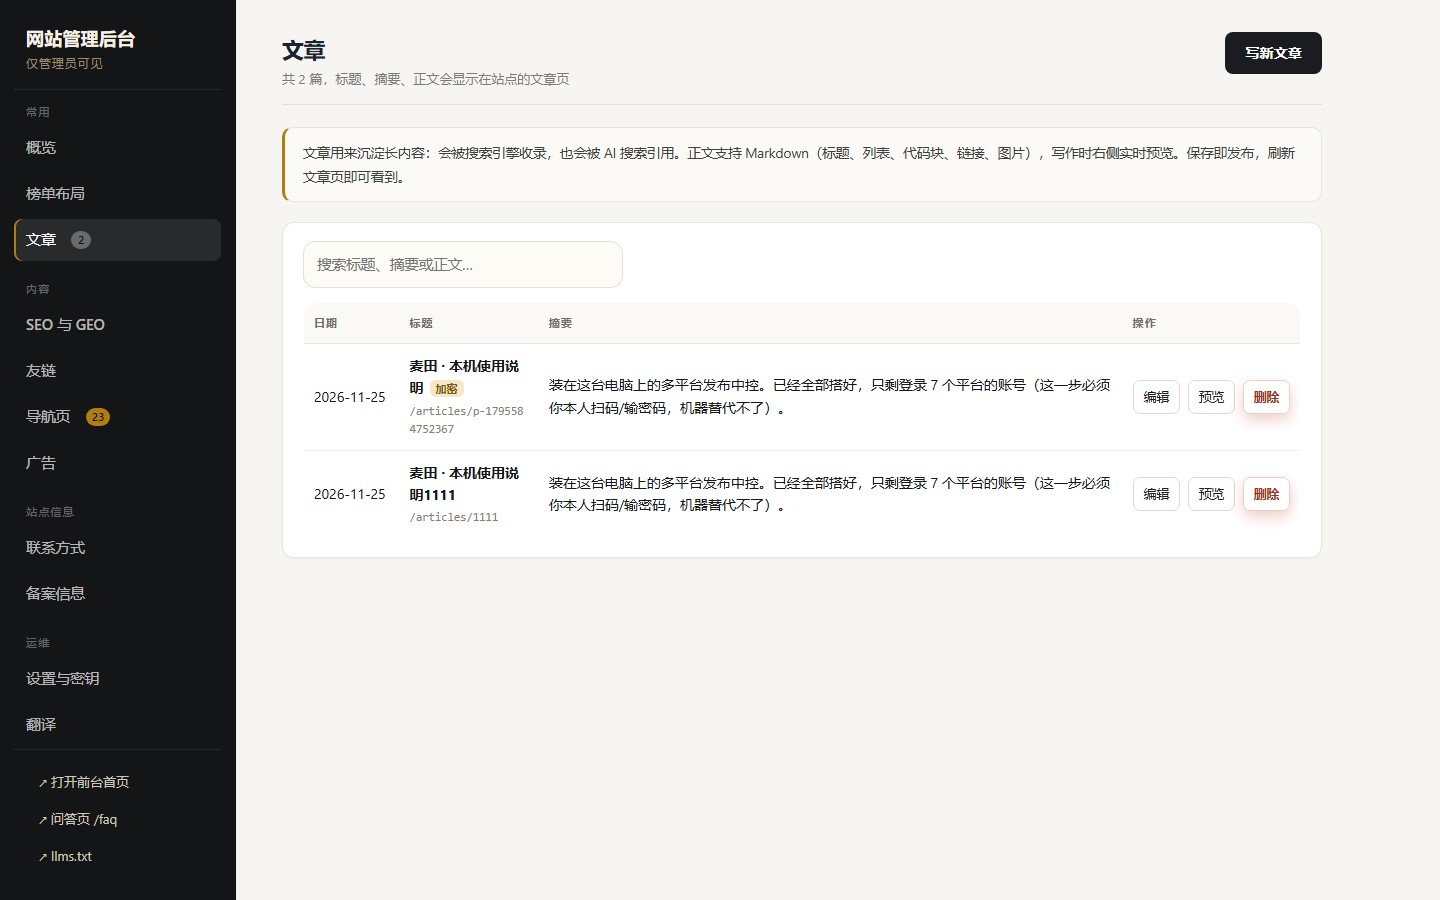
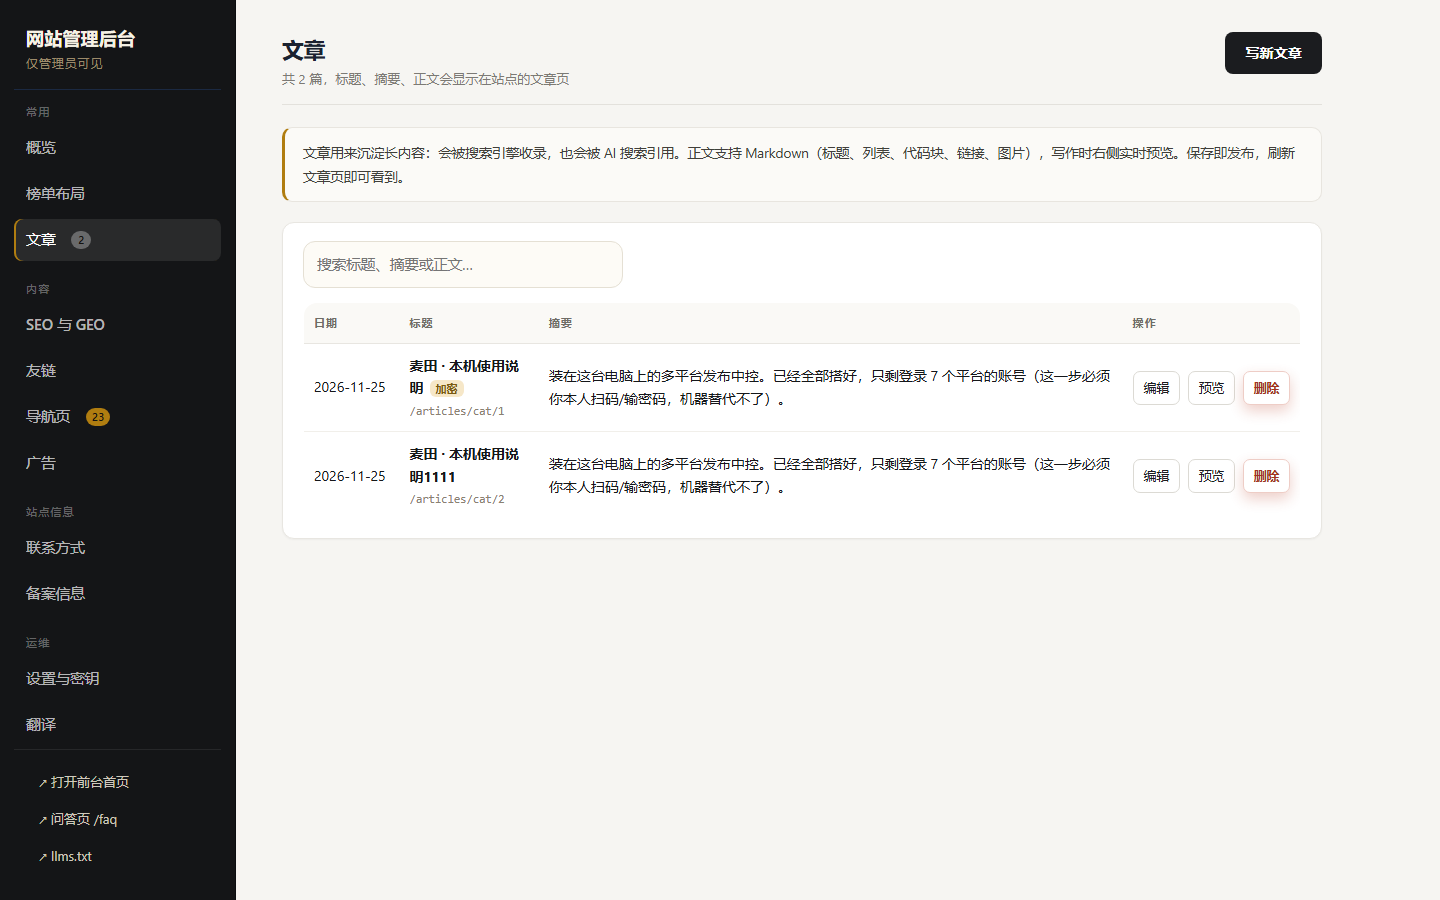
feat(articles): 文章链接改成「分类词/序号」，如 /articles/tech/3、/articles/技术/1
- 后端：catKeyOf() 分类词（英文转小写连字符、中文原样、空则 cat）、nextSeqOf() 该分类最大号+1
- 新建/编辑默认 slug = 分类词/序号；老文章按日期自动补号（cat/1、cat/2…）
- 校验与路由支持中文/字母/数字/_/-，路由先 decodeURIComponent 再匹配
- 输出地址按段编码（整体 encode 会把 / 变成 %2F）；sitemap 与收录提交同步
- 后台写文章弹窗新增「分类」与「链接（分类词/序号）」两栏，「自动」按钮生成分类词、序号留空自动
- 列表每行显示 /articles/<分类词>/<序号> · 分类
- sw v52 / ASSET_V v52；文档补规则与坑（模板字面量吃 \/ 导致后台脚本语法错）

Changed region(s): [[0.2188, 0.4667, 0.9062, 0.5911], [0.3438, 0.4044, 0.9062, 0.4667], [0.2188, 0.4044, 0.25, 0.4667]]

diff --git a/worker.js b/worker.js
@@ -71,7 +71,7 @@ export default {
         });
       }
       // /articles/<slug> 也返回文章页（前端按路径里的 slug 打开对应文章，利于收录）
-      if (/^\/articles\/[A-Za-z0-9][A-Za-z0-9-]{0,59}$/.test(url.pathname) && (request.method === 'GET' || request.method === 'HEAD')) {
+      if (/^\/articles\/[\p{L}\p{N}][\p{L}\p{N}_-]{0,23}(\/[\p{L}\p{N}][\p{L}\p{N}_-]{0,29})?$/u.test(decodeURIComponent(url.pathname)) && (request.method === 'GET' || request.method === 'HEAD')) {
         return serveSiteEdge(env, '/articles', SITE['/articles'], request);
       }
       if (url.pathname === '/sitemap.xml' && (request.method === 'GET' || request.method === 'HEAD')) {
@@ -88,7 +88,9 @@ export default {
         for (const a of list.slice(0, 200)) {
           if (!a || !a.id) continue;
           const lm = a.date ? String(a.date).slice(0, 10) : '';
-          const artPath = a.slug ? '/articles/' + encodeURIComponent(String(a.slug)) : '/articles#' + encodeURIComponent(String(a.id));
+          const artPath = a.slug
+    ? '/articles/' + String(a.slug).split('/').map(encodeURIComponent).join('/')
+    : '/articles#' + encodeURIComponent(String(a.id));
           xml += '  <url><loc>' + origin + artPath + '</loc>' +
             (lm ? '<lastmod>' + lm + '</lastmod>' : '') + '<changefreq>monthly</changefreq><priority>0.5</priority></url>\n';
         }
@@ -1321,7 +1323,7 @@ async function injectFaqLd(env, html) {
 
 // 静态资源版本：HTML 里的 /js/*.js 都会被加上 ?v=<这里>，于是能给浏览器一年 immutable；
 // 改了前端就把它 +1（不然用户浏览器会抱着一周的旧 bundle，界面上去点了没反应）
-const ASSET_V = 'v51';
+const ASSET_V = 'v52';
 
 function emptyNav() {
   return { updatedAt: '', groups: [] };
@@ -1728,7 +1730,7 @@ async function handleSubmit(request, env, origin) {
   const arts = await rawJson(env, 'data/articles.json');
   const urls = [root + '/', root + '/articles'];
   (Array.isArray(arts) ? arts : []).slice(0, 100).forEach((a) => {
-    if (a && a.id) urls.push(root + '/articles/' + encodeURIComponent(String(a.slug || a.id)));
+    if (a && a.id) urls.push(root + '/articles/' + String(a.slug || a.id).split('/').map(encodeURIComponent).join('/'));
   });
   const want = String(body.action || 'all');
   const out = { ok: true, urls: urls.length, root: root, results: {} };
@@ -2329,9 +2331,28 @@ async function readArticles(env) {
     return { ok: false, status: 500, error: 'data/articles.json 不是合法的 JSON 数组，请先在仓库里修正' };
   }
   if (articles.length) {
-    articles = articles.map((a) => {
-      if (a && !a.slug) a.slug = slugify(a.title) || 'p-' + a.id;
-      return a;
+    var catMax = {};
+    articles.forEach(function (a) {
+      if (!a || !a.slug) return;
+      var parts = String(a.slug).split('/');
+      if (parts.length === 2) {
+        var num = parseInt(parts[1], 10);
+        if (num > (catMax[parts[0]] || 0)) catMax[parts[0]] = num;
+      }
+    });
+    var ordered = articles.slice().sort(function (a, b) {
+      return String((a && a.date) || '').localeCompare(String((b && b.date) || ''));
+    });
+    var usedSlug = {};
+    ordered.forEach(function (a) {
+      if (!a) return;
+      if (!a.slug) {
+        var k = catKeyOf(a.category);
+        catMax[k] = (catMax[k] || 0) + 1;
+        a.slug = k + '/' + catMax[k];
+      }
+      if (usedSlug[a.slug]) a.slug = a.slug + '-' + (usedSlug[a.slug] + 1);
+      usedSlug[a.slug] = (usedSlug[a.slug] || 0) + 1;
     });
   }
   return { ok: true, status: 200, articles: articles, sha: cur.data.sha || null };
@@ -2423,14 +2444,39 @@ function slugify(title) {
     .slice(0, 60);
 }
 
+// 分类词：中文分类转写不出英文时统一用 cat；序号按该分类自增
+function catKeyOf(cat) {
+  var raw = String(cat || '').trim().toLowerCase();
+  var s2 = slugify(raw).slice(0, 24);
+  if (s2) return s2;
+  // 中文分类直接用作分类词（URL 里会被百分号编码，浏览器地址栏仍显示中文）
+  if (raw) {
+    var zh = raw.replace(/\s+/g, '-').replace(/[\/#?%&+=]+/g, '').slice(0, 24);
+    if (zh) return zh;
+  }
+  return 'cat';
+}
+function nextSeqOf(list, catKey) {
+  var max = 0;
+  (list || []).forEach(function (x) {
+    if (!x || !x.slug) return;
+    var p2 = String(x.slug).split('/');
+    if (p2.length === 2 && p2[0] === catKey) {
+      var n = parseInt(p2[1], 10);
+      if (n > max) max = n;
+    }
+  });
+  return max + 1;
+}
+
 // 校验一篇文章：title / summary / body 为文字，date 为 YYYY-MM-DD（缺省为今天）
 function checkArticle(v) {
   if (!v || typeof v !== 'object' || Array.isArray(v)) return { ok: false, error: '文章内容必须是对象' };
   const clean = {};
   const rawSlug = typeof v.slug === 'string' ? v.slug.trim().toLowerCase() : '';
   if (rawSlug) {
-    if (!/^[a-z0-9][a-z0-9-]{0,59}$/.test(rawSlug)) {
-      return { ok: false, error: '链接别名只能用小写字母、数字和连字符，2–60 位' };
+    if (!/^[\p{L}\p{N}][\p{L}\p{N}_-]{0,23}(\/[\p{L}\p{N}][\p{L}\p{N}_-]{0,29})?$/u.test(rawSlug)) {
+      return { ok: false, error: '链接格式是 分类词/序号（如 tech/3），不要用空格和 # ? & % 这些符号' };
     }
     clean.slug = rawSlug;
   }
@@ -2507,7 +2553,8 @@ async function handleArticles(request, env) {
     if (list.length >= ARTICLES_MAX) return json({ ok: false, error: '文章最多 ' + ARTICLES_MAX + ' 篇，请先删除旧文章' }, 400);
     let id = String(Date.now());
     while (list.some((a) => a && String(a.id) === id)) id = String(Number(id) + 1);
-    var baseSlug = c.clean.slug || slugify(c.clean.title) || ('p-' + Date.now().toString(36));
+    var catKeyNew = catKeyOf(c.clean.category);
+    var baseSlug = c.clean.slug || catKeyNew + '/' + nextSeqOf(list, catKeyNew);
     var finalSlug = baseSlug;
     var dup = 2;
     while (list.some(function (x) { return x && x.slug === finalSlug; })) finalSlug = baseSlug + '-' + dup++;
@@ -2537,7 +2584,8 @@ async function handleArticles(request, env) {
           return json({ ok: false, error: '加密文章要设置访问密码' }, 400);
         }
       }
-      var wantSlug = c.clean.slug || prev.slug || slugify(c.clean.title) || ('p-' + Date.now().toString(36));
+      var catKeyUp = catKeyOf(c.clean.category || prev.category);
+    var wantSlug = c.clean.slug || prev.slug || catKeyUp + '/' + nextSeqOf(list, catKeyUp);
       var finalSlug2 = wantSlug;
       var dup2 = 2;
       while (list.some(function (x) { return x && x.slug === finalSlug2 && String(x.id) !== String(id); })) finalSlug2 = wantSlug + '-' + dup2++;
@@ -2925,6 +2973,7 @@ code.slot-id{background:#f6f1e4;color:#7a6a4c}
 .lockrow .toggle.inline{margin:0;white-space:nowrap}
 .slugrow{display:flex;gap:6px;align-items:center;min-width:220px;flex:1}
 .slugrow input{flex:1;min-width:0}
+.slug-sep{color:#9a9285;font-family:ui-monospace,Menlo,Consolas,monospace}
 .slugline{font-size:11.5px;color:#8a8172;margin-top:2px;font-family:ui-monospace,Menlo,Consolas,monospace}
 .art-lock{font-size:11px;padding:1px 6px;border-radius:6px;background:#f6e7c8;color:#7a5a11;font-weight:600;margin-left:6px}
 
@@ -3450,12 +3499,23 @@ tr:hover td{background:#fcfbf8}
         <div><label for="artTitleIn">标题</label><input type="text" id="artTitleIn" maxlength="100" placeholder="例如：2026 年 11 月值得关注的 10 个项目"></div>
         <div><label for="artDate">日期</label><input type="date" id="artDate"></div>
       </div>
+      <div class="field-row">
+        <div><label for="artCategory">分类</label><input type="text" id="artCategory" maxlength="24" placeholder="如 技术 / 随笔，会显示在列表与筛选里"></div>
+        <div><label for="artCat">链接（分类词/序号）</label>
+          <span class="slugrow">
+            <input id="artCat" maxlength="24" placeholder="分类词，如 tech">
+            <span class="slug-sep">/</span>
+            <input id="artSeq" maxlength="20" placeholder="序号，如 3（留空自动）">
+            <button type="button" class="ghost small" id="artSlugGen">自动</button>
+          </span>
+        </div>
+      </div>
       <label for="artSummary">摘要</label>
       <textarea id="artSummary" maxlength="300" style="min-height:74px" placeholder="一两句话说清这篇讲什么，会显示在列表里，也会被 AI 搜索引用。"></textarea>
       <div class="lockrow">
         <label class="toggle inline"><input type="checkbox" id="artLock"> 加密这篇（读者要输密码才能看）</label>
         <input type="password" id="artPw" maxlength="60" autocomplete="new-password" placeholder="访问密码，至少 4 位；编辑时留空 = 沿用原密码">
-        <span class="slugrow"><input id="artSlug" maxlength="60" placeholder="链接别名，如 blog-layout-test（只用小写字母、数字、连字符）"><button type="button" class="ghost small" id="artSlugGen">按标题生成</button></span>
+
         <textarea id="artHint" maxlength="300" rows="2" placeholder="怎么拿到密码？例如：加微信 flyfish2026 回复「密码」；留空用站点默认提示"></textarea>
       </div>
       <div class="row-actions">
@@ -3918,7 +3978,7 @@ tr:hover td{background:#fcfbf8}
       return '<tr><td>' + esc(a.date) + '</td><td><b>' + esc(a.title) + '</b>' +
         (a.locked ? '<span class="art-lock">加密</span>' : '') +
         (a.category ? ' <span class="slot-id">' + esc(a.category) + '</span>' : '') +
-        '<div class="slugline">/articles/' + esc(a.slug || a.id) + '</div>' +
+        '<div class="slugline">/articles/' + esc(a.slug || a.id) + (a.category ? ' · ' + esc(a.category) : '') + '</div>' +
         '</td><td>' + esc(a.summary) +
         '</td><td><button type="button" class="ghost small" data-artedit="' + esc(a.id) + '">编辑</button> ' +
         '<button type="button" class="ghost small" data-artview="' + esc(a.id) + '">预览</button> ' +
@@ -3945,7 +4005,10 @@ tr:hover td{background:#fcfbf8}
     $('artBody').value = a ? a.body : '';
     $('artLock').checked = !!(a && a.locked);
     $('artPw').value = '';
-    $('artSlug').value = (a && a.slug) || '';
+    var slugParts = String((a && a.slug) || '').split('/');
+      $('artCategory').value = (a && a.category) || '';
+      $('artCat').value = slugParts.length === 2 ? slugParts[0] : '';
+      $('artSeq').value = slugParts.length === 2 ? slugParts[1] : '';
     $('artHint').value = (a && a.unlockHint) || '';
     $('artErr').textContent = '';
     paintPreview();
@@ -3961,9 +4024,12 @@ tr:hover td{background:#fcfbf8}
     };
     var lockOn = $('artLock').checked;
     var lockPw = $('artPw').value || '';
-    var artSlug = ($('artSlug').value || '').trim();
+    var artCat = ($('artCat').value || '').trim().toLowerCase();
+      var artSeq = ($('artSeq').value || '').trim().toLowerCase();
+      var artSlug = artCat ? (artCat + '/' + (artSeq || '')) : '';
     var artHint = ($('artHint').value || '').trim();
-    article.slug = artSlug;
+    article.category = ($('artCategory').value || '').trim();
+      article.slug = artSlug.split('/').filter(Boolean).join('/');
     article.unlockHint = artHint;
     article.locked = lockOn;
     if (lockOn) {
@@ -4027,14 +4093,12 @@ tr:hover td{background:#fcfbf8}
       this.textContent = grid.classList.contains('preview-off') ? '显示预览' : '隐藏预览';
     });
     $('artSlugGen').addEventListener('click', function () {
-      var t = ($('artTitleIn').value || '').trim();
-      var sl = t.toLowerCase().replace(/[^a-z0-9]+/g, '-').replace(/^-+|-+$/g, '').slice(0, 60);
-      if (!sl) {
-        toast('标题里没有英文字母，先用英文起个短名，或自己填（如 about-me）');
-        return;
-      }
-      $('artSlug').value = sl;
-      toast('别名：/articles/' + sl);
+      var cat = ($('artCat').value || '').trim().toLowerCase() ||
+        (($('artCategory').value || '').trim().toLowerCase().replace(/[^a-z0-9]+/g, '-').replace(/^-+|-+$/g, '')) ||
+        'cat';
+      $('artCat').value = cat;
+      $('artSeq').value = '';
+      toast('链接：/articles/' + cat + '/<自动序号>（想固定就自己填序号）');
     });
     $('artFullBtn').addEventListener('click', function () {
       var dlg = $('artDlg');

diff --git a/articles.html b/articles.html
@@ -521,7 +521,8 @@ footer{margin-top:36px;padding-top:16px;border-top:1px solid var(--border);color
   }
 
   function artPath(a) {
-    return a && a.slug ? '/articles/' + encodeURIComponent(String(a.slug)) : '/articles#' + encodeURIComponent(String((a && a.id) || ''));
+    if (a && a.slug) return '/articles/' + String(a.slug).split('/').map(encodeURIComponent).join('/');
+    return '/articles#' + encodeURIComponent(String((a && a.id) || ''));
   }
 
   function pathOf(id) {
@@ -531,7 +532,7 @@ footer{margin-top:36px;padding-top:16px;border-top:1px solid var(--border);color
   }
 
   function artFromPath() {
-    var m = /^\/articles\/([A-Za-z0-9-]{1,60})\/?$/.exec(location.pathname || '');
+    var m = /^\/articles\/([\p{L}\p{N}][\p{L}\p{N}_-]{0,23}(?:\/[\p{L}\p{N}][\p{L}\p{N}_-]{0,29})?)\/?$/u.exec(decodeURIComponent(location.pathname || ''));
     if (!m) return null;
     var slug = decodeURIComponent(m[1]);
     var hit = null;

diff --git a/docs/优化建议.md b/docs/优化建议.md
@@ -373,3 +373,12 @@ node scripts/check-worker.mjs      # 本地模拟 Workers 运行时，30+ 项断
 | 别名不可读 | 后台加「按标题生成」按钮 + 列表显示 `/articles/<slug>` | admin-articles.png |
 
 **坑**：PowerShell 5.1 用 `(Get-Content -Raw).Replace() | Set-Content` 会把 UTF-8 中文按 ANSI 解码写回，**直接毁掉 worker.js**（本次已踩，靠 `git checkout -- worker.js` 恢复后重放补丁）。改任何含中文的文件一律用 node `fs.readFileSync(...,'utf8')`。
+
+## §20 文章链接改成「分类词/序号」
+
+- 规则：`/articles/<catKey>/<seq>`；`catKeyOf()` 先 slugify，中文则原样（保留可读性），空则 `cat`；`nextSeqOf()` 取该分类最大号 +1。
+- 校验：每段允许字母/数字/汉字/`_`/`-`（`\p{L}\p{N}` + u 标志），不允许空格与 `# ? & %`。
+- 路由与前端解析都改成正则 `^/articles/[\p{L}\p{N}][\p{L}\p{N}_-]{0,23}(/[\p{L}\p{N}][\p{L}\p{N}_-]{0,29})?$`，并且**先 `decodeURIComponent` 再匹配**（否则中文路径永远 404）。
+- 输出地址时按段编码：`slug.split('/').map(encodeURIComponent).join('/')`（整体 encode 会把 `/` 变成 `%2F`）。
+- 坑：后台脚本在 `ADMIN_PAGE` 模板字面量里，正则里的 `\/` 会被模板吃掉变 `//` → `SyntaxError: missing ) after argument list`；这类地方改用 `split('/').filter(Boolean).join('/')`，别写反斜杠。
+- 顺带：`check-admin-script.mjs` 能在 1 秒内抓出这种错误，改后台脚本后必跑。

diff --git a/docs/操作手册.md b/docs/操作手册.md
@@ -409,3 +409,11 @@ scripts/preview-admin.mjs  生成后台各面板的预览页（自动用 dev 密
 
 - **百度 400 site init fail**：百度的 `site` 参数必须是**裸域名**（`github.661026.xyz`），带 `https://` 会 400。Worker 已自动去掉协议与路径。
 - **IndexNow 429 TooManyRequests**：同一批地址短时间重复推会限流。现在有两道闸：①10 分钟冷却；②同一批地址（内容签名相同）1 小时内自动跳过（勾「强制再推一次」可绕过）。
+
+### 文章链接：`/articles/分类词/序号`
+
+- 默认按「分类词 + 该分类下的序号」自动生成，例如 `/articles/tech/3`、`/articles/技术/1`。
+- 分类词默认取文章「分类」：英文分类直接转成小写连字符（`Web Dev` → `web-dev`）；中文分类原样使用（URL 里是百分号编码，地址栏仍显示中文）；都没填就是 `cat`。
+- 序号自动 = 该分类现有最大号 + 1；想固定就自己填（后台写文章弹窗的「链接（分类词/序号）」两格，右格就是后缀）。
+- 老文章会按日期顺序自动补号（`cat/1`、`cat/2`…）；想换成好看的就编辑那篇、把分类词改成 `tech` 这类英文，序号可留空自动。
+- 前台 `/articles/<分类词>/<序号>`、sitemap、提交给搜索引擎的地址全部用这个格式。
